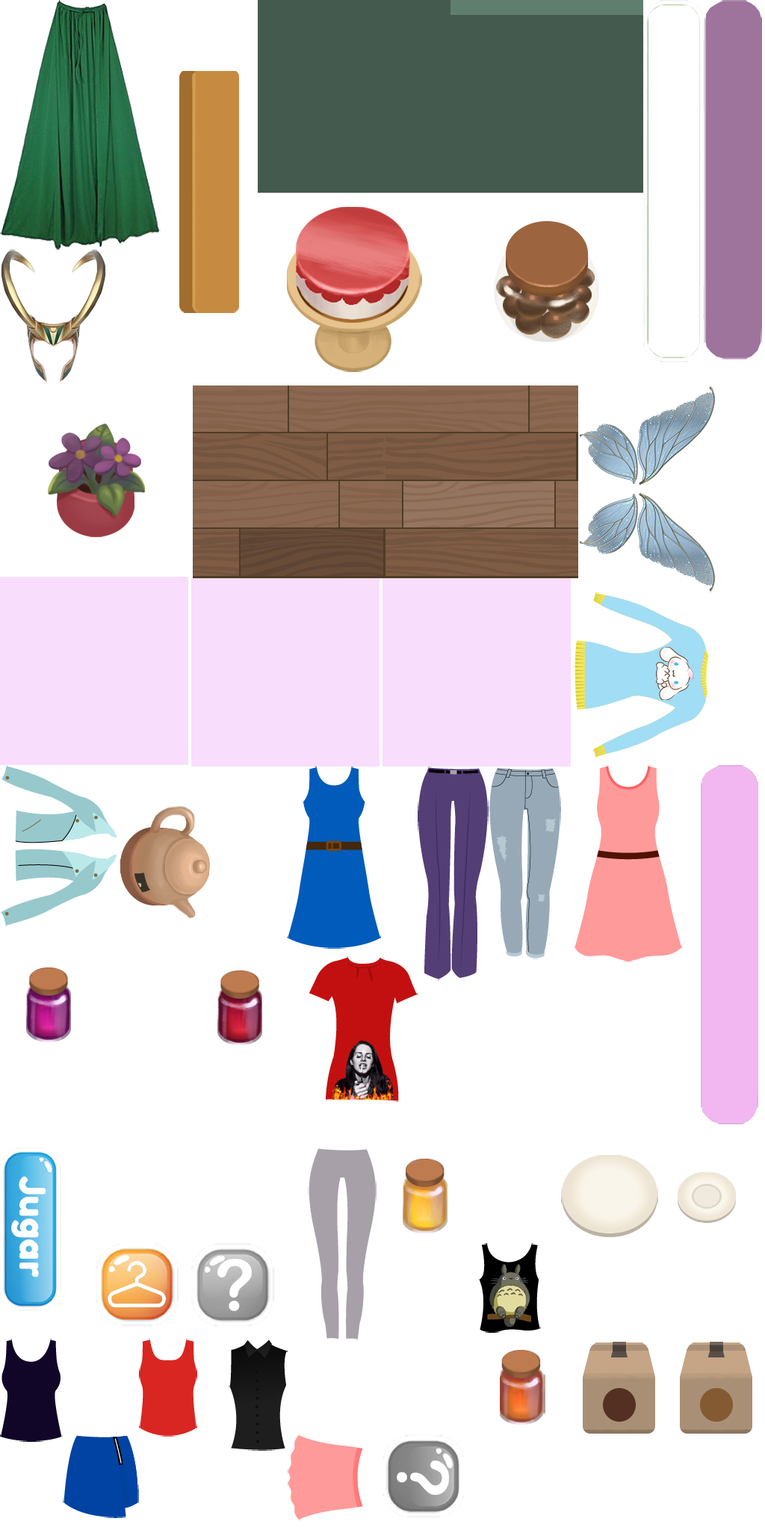
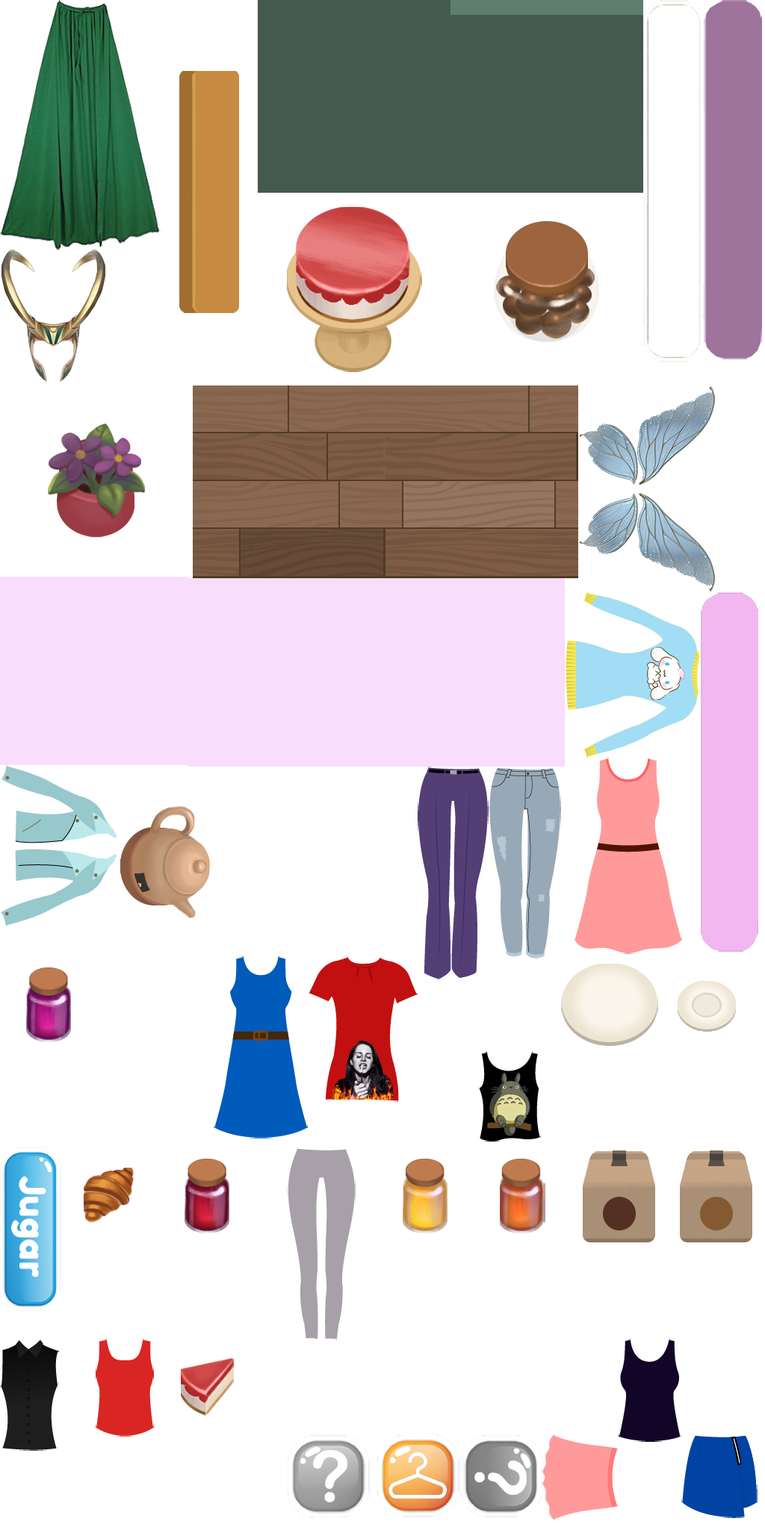
.

diff --git a/scripts/c3runtime.js b/scripts/c3runtime.js
@@ -1236,9 +1236,24 @@ const C3=self.C3,GESTURE_HOLD_THRESHOLD=15,GESTURE_HOLD_TIMEOUT=500,GESTURE_TAP_
 {const a=self.C3;a.Behaviors.Fade=class extends a.SDKBehaviorBase{constructor(t){super(t)}Release(){super.Release()}}}{const d=self.C3;d.Behaviors.Fade.Type=class extends d.SDKBehaviorTypeBase{constructor(t){super(t)}Release(){super.Release()}OnCreate(){}}}{const g=self.C3,h=self.C3X,i=self.IBehaviorInstance,j=0,k=1,l=2,m=3,n=4,o=(g.Behaviors.Fade.Instance=class extends g.SDKBehaviorInstanceBase{constructor(t,e){super(t),this._fadeInTime=0,this._waitTime=0,this._fadeOutTime=0,this._destroy=!0,this._activeAtStart=!0,this._setMaxOpacity=!1,this._stage=0,this._stageTime=g.New(g.KahanSum),this._maxOpacity=this._inst.GetWorldInfo().GetOpacity()||1,e&&(this._fadeInTime=e[j],this._waitTime=e[k],this._fadeOutTime=e[l],this._destroy=!!e[m],this._activeAtStart=!!e[n],this._stage=this._activeAtStart?0:3),this._activeAtStart&&(0===this._fadeInTime?(this._stage=1,0===this._waitTime&&(this._stage=2)):(this._inst.GetWorldInfo().SetOpacity(0),this._runtime.UpdateRender())),this._StartTicking()}Release(){super.Release()}SaveToJson(){return{"fit":this._fadeInTime,"wt":this._waitTime,"fot":this._fadeOutTime,"d":this._destroy,"s":this._stage,"st":this._stageTime.Get(),"mo":this._maxOpacity}}LoadFromJson(t){this._fadeInTime=t["fit"],this._waitTime=t["wt"],this._fadeOutTime=t["fot"],this._destroy=t["d"],this._stage=t["s"],this._stageTime.Set(t["st"]),this._maxOpacity=t["mo"],3===this._stage?this._StopTicking():this._StartTicking()}Tick(){const t=this._runtime.GetDt(this._inst),e=(this._stageTime.Add(t),this._inst.GetWorldInfo());0===this._stage&&(e.SetOpacity(this._stageTime.Get()/this._fadeInTime*this._maxOpacity),this._runtime.UpdateRender(),e.GetOpacity()>=this._maxOpacity)&&(e.SetOpacity(this._maxOpacity),this._stage=1,this._stageTime.Reset(),this.DispatchScriptEvent("fadeinend"),this.Trigger(g.Behaviors.Fade.Cnds.OnFadeInEnd)),1===this._stage&&this._stageTime.Get()>=this._waitTime&&(this._stage=2,this._stageTime.Reset(),this.DispatchScriptEvent("waitend"),this.Trigger(g.Behaviors.Fade.Cnds.OnWaitEnd)),2===this._stage&&(0!==this._fadeOutTime?(e.SetOpacity(this._maxOpacity-this._stageTime.Get()/this._fadeOutTime*this._maxOpacity),this._runtime.UpdateRender(),e.GetOpacity()<=0&&(this._stage=3,this._stageTime.Reset(),this.DispatchScriptEvent("fadeoutend"),this.Trigger(g.Behaviors.Fade.Cnds.OnFadeOutEnd),this._destroy)&&this._runtime.DestroyInstance(this._inst)):(this._stage=3,this._stageTime.Reset())),3===this._stage&&this._StopTicking()}_StartFade(){this._activeAtStart||this._setMaxOpacity||(this._maxOpacity=this._inst.GetWorldInfo().GetOpacity()||1,this._setMaxOpacity=!0),3===this._stage&&this.Start()}_RestartFade(){this.Start()}Start(){this._stage=0,this._stageTime.Reset(),0===this._fadeInTime?(this._stage=1,0===this._waitTime&&(this._stage=2)):(this._inst.GetWorldInfo().SetOpacity(0),this._runtime.UpdateRender()),this._StartTicking()}_SetFadeInTime(t){this._fadeInTime=Math.max(t,0)}_GetFadeInTime(){return this._fadeInTime}_SetWaitTime(t){this._waitTime=Math.max(t,0)}_GetWaitTime(){return this._waitTime}_SetFadeOutTime(t){this._fadeOutTime=Math.max(t,0)}_GetFadeOutTime(){return this._fadeOutTime}GetPropertyValueByIndex(t){switch(t){case j:return this._GetFadeInTime();case k:return this._GetWaitTime();case l:return this._GetFadeOutTime();case m:return this._destroy}}SetPropertyValueByIndex(t,e){switch(t){case j:this._SetFadeInTime(e);break;case k:this._SetWaitTime(e);break;case l:this._SetFadeOutTime(e);break;case m:this._destroy=!!e}}GetDebuggerProperties(){const t="behaviors.fade";return[{title:"$"+this.GetBehaviorType().GetName(),properties:[{name:t+".properties.fade-in-time.name",value:this._GetFadeInTime(),onedit:t=>this._SetFadeInTime(t)},{name:t+".properties.wait-time.name",value:this._GetWaitTime(),onedit:t=>this._SetWaitTime(t)},{name:t+".properties.fade-out-time.name",value:this._GetFadeOutTime(),onedit:t=>this._SetFadeOutTime(t)},{name:t+".debugger.stage",value:[t+".debugger."+["fade-in","wait","fade-out","done"][this._stage]]}]}]}GetScriptInterfaceClass(){return self.IFadeBehaviorInstance}},new WeakMap);self.IFadeBehaviorInstance=class extends i{constructor(){super(),o.set(this,i._GetInitInst().GetSdkInstance())}startFade(){o.get(this)._StartFade()}restartFade(){o.get(this)._RestartFade()}set fadeInTime(t){h.RequireFiniteNumber(t),o.get(this)._SetFadeInTime(t)}get fadeInTime(){return o.get(this)._GetFadeInTime()}set waitTime(t){h.RequireFiniteNumber(t),o.get(this)._SetWaitTime(t)}get waitTime(){return o.get(this)._GetWaitTime()}set fadeOutTime(t){h.RequireFiniteNumber(t),o.get(this)._SetFadeOutTime(t)}get fadeOutTime(){return o.get(this)._GetFadeOutTime()}}}{const J=self.C3;J.Behaviors.Fade.Cnds={OnFadeOutEnd(){return!0},OnFadeInEnd(){return!0},OnWaitEnd(){return!0}}}{const K=self.C3;K.Behaviors.Fade.Acts={StartFade(){this._StartFade()},RestartFade(){this._RestartFade()},SetFadeInTime(t){this._SetFadeInTime(t)},SetWaitTime(t){this._SetWaitTime(t)},SetFadeOutTime(t){this._SetFadeOutTime(t)}}}{const O=self.C3;O.Behaviors.Fade.Exps={FadeInTime(){return this._GetFadeInTime()},WaitTime(){return this._GetWaitTime()},FadeOutTime(){return this._GetFadeOutTime()}}}
 }
 
+// scripts/behaviors/scrollto/c3runtime/runtime.js
+{
+{const a=self.C3;a.Behaviors.scrollto=class extends a.SDKBehaviorBase{constructor(e){super(e),this._shakeMag=0,this._shakeStart=0,this._shakeEnd=0,this._shakeMode=0}Release(){super.Release()}SetShakeMagnitude(e){this._shakeMag=e}GetShakeMagnitude(){return this._shakeMag}SetShakeStart(e){this._shakeStart=e}GetShakeStart(){return this._shakeStart}SetShakeEnd(e){this._shakeEnd=e}GetShakeEnd(){return this._shakeEnd}SetShakeMode(e){this._shakeMode=e}GetShakeMode(){return this._shakeMode}}}{const h=self.C3;h.Behaviors.scrollto.Type=class extends h.SDKBehaviorTypeBase{constructor(e){super(e)}Release(){super.Release()}OnCreate(){}}}{const k=self.C3,l=0;k.Behaviors.scrollto.Instance=class extends k.SDKBehaviorInstanceBase{constructor(e,t){super(e),this._isEnabled=!0,t&&(this._isEnabled=t[l]),this._isEnabled&&this._StartTicking2()}Release(){super.Release()}SaveToJson(){const e=this.GetBehavior();return{"e":this._isEnabled,"smg":e.GetShakeMagnitude(),"ss":e.GetShakeStart(),"se":e.GetShakeEnd(),"smd":e.GetShakeMode()}}LoadFromJson(e){const t=this.GetBehavior();t.SetShakeMagnitude(e["smg"]),t.SetShakeStart(e["ss"]),t.SetShakeEnd(e["se"]),t.SetShakeMode(e["smd"]),this._isEnabled=e["e"],this._isEnabled?this._StartTicking2():this._StopTicking2()}_SetEnabled(e){this._isEnabled=!!e,this._isEnabled?this._StartTicking2():this._StopTicking2()}IsEnabled(){return this._isEnabled}Tick2(){if(this.IsEnabled()){this._runtime.GetDt(this._inst);const h=this.GetBehavior(),n=h.GetInstances();let e=0,t=0,s=0;for(const S of n){const l=S.GetBehaviorInstanceFromCtor(k.Behaviors.scrollto);if(l&&l.GetSdkInstance().IsEnabled()){const d=S.GetWorldInfo();e+=d.GetX(),t+=d.GetY(),++s}}const r=this._inst.GetWorldInfo().GetLayout(),o=this._runtime.GetGameTime();let a=0,i=0;if(o>=h.GetShakeStart()&&o<h.GetShakeEnd()){let e=h.GetShakeMagnitude()*Math.min(this._runtime.GetTimeScale(),1);0===h.GetShakeMode()&&(e*=1-(o-h.GetShakeStart())/(h.GetShakeEnd()-h.GetShakeStart()));const c=this._runtime.Random()*Math.PI*2,_=this._runtime.Random()*e;a=Math.cos(c)*_,i=Math.sin(c)*_}r.SetScrollX(e/s+a),r.SetScrollY(t/s+i)}}GetPropertyValueByIndex(e){if(e===l)return this._isEnabled}SetPropertyValueByIndex(e,t){e===l&&(this._isEnabled=!!t,this._isEnabled?this._StartTicking2():this._StopTicking2())}GetDebuggerProperties(){return[{title:"$"+this.GetBehaviorType().GetName(),properties:[{name:"behaviors.scrollto.properties.enabled.name",value:this.IsEnabled(),onedit:e=>this._SetEnabled(e)}]}]}}}{const O=self.C3;O.Behaviors.scrollto.Cnds={IsEnabled(){return this.IsEnabled()}}}{const P=self.C3;P.Behaviors.scrollto.Acts={Shake(e,t,s){const a=this.GetBehavior();a.SetShakeMagnitude(e),a.SetShakeStart(this._runtime.GetGameTime()),a.SetShakeEnd(this._runtime.GetGameTime()+t),a.SetShakeMode(s)},SetEnabled(e){this._SetEnabled(0!==e)}}}{const V=self.C3;V.Behaviors.scrollto.Exps={}}
+}
+
 // scripts/behaviors/DragnDrop/c3runtime/runtime.js
 {
 {const a=self.C3;a.Behaviors.DragnDrop=class extends a.SDKBehaviorBase{constructor(e){super(e);const t=this._runtime.Dispatcher();this._disposables=new a.CompositeDisposable(a.Disposable.From(t,"pointerdown",e=>this._OnPointerDown(e.data)),a.Disposable.From(t,"pointermove",e=>this._OnPointerMove(e.data)),a.Disposable.From(t,"pointerup",e=>this._OnPointerUp(e.data,!1)),a.Disposable.From(t,"pointercancel",e=>this._OnPointerUp(e.data,!0)))}Release(){this._disposables.Release(),this._disposables=null,super.Release()}_OnPointerDown(e){"mouse"===e["pointerType"]&&0!==e["button"]||this._OnInputDown(e["pointerId"].toString(),e["pageX"]-this._runtime.GetCanvasClientX(),e["pageY"]-this._runtime.GetCanvasClientY())}_OnPointerMove(e){0!=(1&e["lastButtons"])&&0==(1&e["buttons"])?this._OnInputUp(e["pointerId"].toString()):this._OnInputMove(e["pointerId"].toString(),e["pageX"]-this._runtime.GetCanvasClientX(),e["pageY"]-this._runtime.GetCanvasClientY())}_OnPointerUp(e,t){"mouse"===e["pointerType"]&&0!==e["button"]||this._OnInputUp(e["pointerId"].toString())}async _OnInputDown(e,t,s){const n=this.GetInstances();let r=null,i=null,o=0,h=0;for(const g of n){const l=g.GetBehaviorSdkInstanceFromCtor(a.Behaviors.DragnDrop);if(l.IsEnabled()&&!l.IsDragging()&&!g.IsDestroyed()){const p=g.GetWorldInfo(),d=p.GetLayer(),[_,c]=d.CanvasCssToLayer(t,s,p.GetTotalZElevation());if(d.IsSelfAndParentsInteractive()&&p.ContainsPoint(_,c))if(r){const D=r.GetWorldInfo();(d.GetIndex()>D.GetLayer().GetIndex()||d.GetIndex()===D.GetLayer().GetIndex()&&p.GetZIndex()>D.GetZIndex())&&(r=g,i=l,o=_,h=c)}else r=g,i=l,o=_,h=c}}r&&await i._OnDown(e,o,h)}_OnInputMove(e,t,s){const n=this.GetInstances();for(const r of n){const i=r.GetBehaviorSdkInstanceFromCtor(a.Behaviors.DragnDrop);if(i.IsEnabled()&&i.IsDragging()&&(!i.IsDragging()||i.GetDragSource()===e)){const o=r.GetWorldInfo(),h=o.GetLayer(),[g,l]=h.CanvasCssToLayer(t,s,o.GetTotalZElevation());i._OnMove(g,l)}}}async _OnInputUp(e){const t=this.GetInstances();for(const s of t){const n=s.GetBehaviorSdkInstanceFromCtor(a.Behaviors.DragnDrop);n.IsDragging()&&n.GetDragSource()===e&&await n._OnUp()}}}}{const P=self.C3;P.Behaviors.DragnDrop.Type=class extends P.SDKBehaviorTypeBase{constructor(e){super(e)}Release(){super.Release()}OnCreate(){}}}{const S=self.C3,T=self.C3X,U=self.IBehaviorInstance,V=0,W=1,X=(S.Behaviors.DragnDrop.Instance=class extends S.SDKBehaviorInstanceBase{constructor(e,t){super(e),this._isDragging=!1,this._dx=0,this._dy=0,this._dragSource="<none>",this._axes=0,this._isEnabled=!0,t&&(this._axes=t[V],this._isEnabled=t[W])}Release(){super.Release()}SaveToJson(){return{"a":this._axes,"e":this._isEnabled}}LoadFromJson(e){this._axes=e["a"],this._isEnabled=e["e"],this._isDragging=!1}_SetEnabled(e){this._isEnabled=!!e,this._isEnabled||(this._isDragging=!1)}IsEnabled(){return this._isEnabled}_SetAxes(e){this._axes=e}_GetAxes(){return this._axes}_Drop(){this._isDragging&&this._OnUp()}IsDragging(){return this._isDragging}GetDragSource(){return this._dragSource}async _OnDown(e,t,s){const n=this.GetWorldInfo();this._dx=t-n.GetX(),this._dy=s-n.GetY(),this._isDragging=!0,this._dragSource=e,this.DispatchScriptEvent("dragstart"),await this.TriggerAsync(S.Behaviors.DragnDrop.Cnds.OnDragStart)}_OnMove(e,t){const s=this.GetWorldInfo(),n=e-this._dx,r=t-this._dy;0===this._axes?s.GetX()===n&&s.GetY()===r||(s.SetXY(n,r),s.SetBboxChanged()):1===this._axes?s.GetX()!==n&&(s.SetX(n),s.SetBboxChanged()):2===this._axes&&s.GetY()!==r&&(s.SetY(r),s.SetBboxChanged())}async _OnUp(){this._isDragging=!1,this.DispatchScriptEvent("drop"),await this.TriggerAsync(S.Behaviors.DragnDrop.Cnds.OnDrop)}GetPropertyValueByIndex(e){switch(e){case V:return this._GetAxes();case W:return this.IsEnabled()}}SetPropertyValueByIndex(e,t){switch(e){case V:this._SetAxes(t);break;case W:this._SetEnabled(!!t)}}GetDebuggerProperties(){const e="behaviors.dragndrop",t=e+".properties.axes";let s="";return 0===this._axes?s=t+".items.both":1===this._axes?s=t+".items.horizontal-only":2===this._axes&&(s=t+".items.vertical-only"),[{title:"$"+this.GetBehaviorType().GetName(),properties:[{name:e+".debugger.is-dragging",value:this.IsDragging()},{name:t+".name",value:[s]},{name:e+".properties.enabled.name",value:this.IsEnabled(),onedit:e=>this._SetEnabled(e)}]}]}GetScriptInterfaceClass(){return self.IDragDropBehaviorInstance}},new WeakMap),Y=["both","horizontal","vertical"];self.IDragDropBehaviorInstance=class extends U{constructor(){super(),X.set(this,U._GetInitInst().GetSdkInstance())}set axes(e){const t=Y.indexOf(e);if(-1===t)throw new Error("invalid axes");X.get(this)._SetAxes(t)}get axes(){return Y[X.get(this)._GetAxes()]}drop(){X.get(this)._Drop()}get isDragging(){return X.get(this).IsDragging()}get isEnabled(){return X.get(this).IsEnabled()}set isEnabled(e){X.get(this)._SetEnabled(e)}}}{const xa=self.C3;xa.Behaviors.DragnDrop.Cnds={IsDragging(){return this.IsDragging()},OnDragStart(){return!0},OnDrop(){return!0},IsEnabled(){return this.IsEnabled()}}}{const ya=self.C3;ya.Behaviors.DragnDrop.Acts={SetEnabled(e){this._SetEnabled(!!e)},SetAxes(e){this._SetAxes(e)},Drop(){this._Drop()}}}{const Ba=self.C3;Ba.Behaviors.DragnDrop.Exps={}}
+}
+
+// scripts/behaviors/EightDir/c3runtime/runtime.js
+{
+{const a=self.C3;a.Behaviors.EightDir=class extends a.SDKBehaviorBase{constructor(t){super(t)}Release(){super.Release()}}}{const d=self.C3;d.Behaviors.EightDir.Type=class extends d.SDKBehaviorTypeBase{constructor(t){super(t)}Release(){super.Release()}OnCreate(){}}}{const g=self.C3,h=self.C3X,i=self.IBehaviorInstance,j=0,k=1,l=2,m=3,n=4,o=5,p=6,q=7,r=(g.Behaviors.EightDir.Instance=class extends g.SDKBehaviorInstanceBase{constructor(t,e){super(t),this._upKey=!1,this._downKey=!1,this._leftKey=!1,this._rightKey=!1,this._ignoreInput=!1,this._simUp=!1,this._simDown=!1,this._simLeft=!1,this._simRight=!1,this._dx=0,this._dy=0,this._maxSpeed=200,this._acc=600,this._dec=500,this._directions=3,this._angleMode=3,this._allowSliding=!1,this._defaultControls=!0,this._isEnabled=!0,e&&(this._maxSpeed=e[j],this._acc=e[k],this._dec=e[l],this._directions=e[m],this._angleMode=e[n],this._allowSliding=!!e[o],this._defaultControls=!!e[p],this._isEnabled=!!e[q]),this._isEnabled&&this._StartTicking(),this._defaultControls&&this._BindEvents()}_BindEvents(){if(!this._disposables){const t=this._runtime.Dispatcher();this._disposables=new g.CompositeDisposable(g.Disposable.From(t,"keydown",t=>this._OnKeyDown(t.data)),g.Disposable.From(t,"keyup",t=>this._OnKeyUp(t.data)),g.Disposable.From(t,"window-blur",()=>this._OnWindowOrKeyboardBlur()),g.Disposable.From(t,"keyboard-blur",()=>this._OnWindowOrKeyboardBlur()))}}_UnBindEvents(){this._disposables&&(this._disposables.Release(),this._disposables=null)}Release(){super.Release()}SaveToJson(){return{"dx":this._dx,"dy":this._dy,"e":this._isEnabled,"ms":this._maxSpeed,"acc":this._acc,"dec":this._dec,"d":this._directions,"am":this._angleMode,"dc":this._defaultControls,"ii":this._ignoreInput}}LoadFromJson(t){this._dx=t["dx"],this._dy=t["dy"],this._SetEnabled(t["e"]),this._maxSpeed=t["ms"],this._acc=t["acc"],this._dec=t["dec"],this._directions=t["d"],this._angleMode=t["am"],this._defaultControls=t["dc"],this._ignoreInput=t["ii"],this._upKey=!1,this._downKey=!1,this._leftKey=!1,this._rightKey=!1,this._simUp=!1,this._simDown=!1,this._simLeft=!1,this._simRight=!1,this._defaultControls?this._BindEvents():this._UnBindEvents()}_OnKeyDown(t){switch(t["key"]){case"ArrowLeft":this._leftKey=!0;break;case"ArrowUp":this._upKey=!0;break;case"ArrowRight":this._rightKey=!0;break;case"ArrowDown":this._downKey=!0}}_OnKeyUp(t){switch(t["key"]){case"ArrowLeft":this._leftKey=!1;break;case"ArrowUp":this._upKey=!1;break;case"ArrowRight":this._rightKey=!1;break;case"ArrowDown":this._downKey=!1}}_OnWindowOrKeyboardBlur(){this._upKey=!1,this._downKey=!1,this._leftKey=!1,this._rightKey=!1}Tick(){const h=this._runtime.GetDt(this._inst),n=this._runtime.GetCollisionEngine();let e=this._leftKey||this._simLeft,a=this._rightKey||this._simRight,r=this._upKey||this._simUp,o=this._downKey||this._simDown;if(this._simLeft=!1,this._simRight=!1,this._simUp=!1,this._simDown=!1,this._isEnabled){let s=n.TestOverlapSolid(this._inst);if(!s||(n.RegisterCollision(this._inst,s),n.PushOutSolidNearest(this._inst))){this._ignoreInput&&(e=a=r=o=!1),0===this._directions?e=a=!1:1===this._directions&&(r=o=!1),(e=2===this._directions&&(r||o)?a=!1:e)===a&&(this._dx<0?this._dx=Math.min(this._dx+this._dec*h,0):0<this._dx&&(this._dx=Math.max(this._dx-this._dec*h,0))),r===o&&(this._dy<0?this._dy=Math.min(this._dy+this._dec*h,0):0<this._dy&&(this._dy=Math.max(this._dy-this._dec*h,0)));let t=0,i=0;if(e&&!a&&(t=0<this._dx?-(this._acc+this._dec):-this._acc),a&&!e&&(t=this._dx<0?this._acc+this._dec:this._acc),r&&!o&&(i=0<this._dy?-(this._acc+this._dec):-this._acc),o&&!r&&(i=this._dy<0?this._acc+this._dec:this._acc),this._dx+=t*h,this._dy+=i*h,0!==this._dx||0!==this._dy){let e=Math.hypot(this._dx,this._dy);const _=Math.atan2(this._dy,this._dx),d=this._maxSpeed*Math.cos(_),l=this._maxSpeed*Math.sin(_),c=(e>this._maxSpeed&&(e=this._maxSpeed,this._dx=d,this._dy=l),this._inst.GetWorldInfo()),S=c.GetX(),u=c.GetY(),p=c.GetAngle(),m=Math.abs(d)*h,b=Math.abs(l)*h,x=g.clamp(this._dx*h+.5*t*h*h,-m,m),y=g.clamp(this._dy*h+.5*i*h*h,-b,b);if(this._allowSliding){if(c.OffsetXY(x,y),c.SetBboxChanged(),s=n.TestOverlapSolid(this._inst)){n.RegisterCollision(this._inst,s);const w=Math.atan2(this._dy,this._dx)+Math.PI/2;let t=!1;const D=(c.GetWidth()+c.GetHeight())/4;if(n.PushOutSolidAxis(this._inst,Math.cos(w),Math.sin(w),Math.max(2.5*e*h,D))){t=!0;const I=c.GetX(),C=c.GetY(),G=e*h,v=g.distanceTo(S,u,I,C);if(1.01*G<v){const A=G/v,E=g.lerp(S,I,A),B=g.lerp(u,C,A);if(c.SetXY(E,B),c.SetBboxChanged(),s=n.TestOverlapSolid(this._inst)){const R=g.angleTo(S,u,I,C)+Math.PI/2,K=Math.cos(R),O=Math.sin(R),V=(c.GetWidth()+c.GetHeight())/2/10;n.PushOutSolidAxis(this._inst,K,O,Math.max(V,1))||(c.SetXY(S,u),c.SetBboxChanged(),t=!1)}}}if(!t){const k=Math.hypot(x,y),X=-x/k,Y=-y/k;this._dx=0,this._dy=0,n.PushOutSolid(this._inst,X,Y,Math.max(2.5*e*h,D))||(c.SetXY(S,u),c.SetBboxChanged())}}}else c.OffsetX(x),c.SetBboxChanged(),(s=n.TestOverlapSolid(this._inst))&&(n.PushOutSolid(this._inst,this._dx<0?1:-1,0,Math.max(Math.abs(Math.floor(x)),1))||(c.SetX(S),c.SetBboxChanged()),this._dx=0,n.RegisterCollision(this._inst,s)),c.OffsetY(y),c.SetBboxChanged(),(s=n.TestOverlapSolid(this._inst))&&(n.PushOutSolid(this._inst,0,this._dy<0?1:-1,Math.max(Math.abs(Math.floor(y)),1))||(c.SetY(u),c.SetBboxChanged()),this._dy=0,n.RegisterCollision(this._inst,s));const M=g.roundToDp(this._dx,6),f=g.roundToDp(this._dy,6);0===M&&0===f||!this._inst.GetPlugin().IsRotatable()||(1===this._angleMode?c.SetAngle(g.toRadians(90*Math.round(g.toDegrees(Math.atan2(f,M))/90))):2===this._angleMode?c.SetAngle(g.toRadians(45*Math.round(g.toDegrees(Math.atan2(f,M))/45))):3===this._angleMode&&c.SetAngle(Math.atan2(f,M))),c.SetBboxChanged(),c.GetAngle()!=p&&(s=n.TestOverlapSolid(this._inst))&&(c.SetAngle(p),c.SetBboxChanged(),n.RegisterCollision(this._inst,s))}}}}GetPropertyValueByIndex(t){switch(t){case j:return this._GetMaxSpeed();case k:return this._GetAcceleration();case l:return this._GetDeceleration();case m:return this._directions;case n:return this._angleMode;case o:return this._allowSliding;case p:return this._IsDefaultControls();case q:return this._IsEnabled()}}SetPropertyValueByIndex(t,e){switch(t){case j:this._SetMaxSpeed(e);break;case k:this._SetAcceleration(e);break;case l:this._SetDeceleration(e);break;case m:this._directions=e;break;case n:this._angleMode=e;break;case o:this._allowSliding=!!e;break;case p:this._SetDefaultControls(!!e);break;case q:this._SetEnabled(!!e)}}_Stop(){this._dx=0,this._dy=0}_Reverse(){this._dx*=-1,this._dy*=-1}_MaybeClampSpeed(){const t=Math.hypot(this._dx,this._dy);t>this._maxSpeed&&this._SetSpeed(t)}_SetSpeed(t){t=g.clamp(t,0,this._maxSpeed);const e=Math.atan2(this._dy,this._dx);this._dx=t*Math.cos(e),this._dy=t*Math.sin(e)}_GetSpeed(){return Math.hypot(this._dx,this._dy)}_SetMaxSpeed(t){this._maxSpeed=Math.max(t,0)}_GetMaxSpeed(){return this._maxSpeed}_SetAcceleration(t){this._acc=Math.max(t,0)}_GetAcceleration(){return this._acc}_SetDeceleration(t){this._dec=Math.max(t,0)}_GetDeceleration(){return this._dec}_GetMovingAngle(){return Math.atan2(this._dy,this._dx)}_SetVectorX(t){this._dx=t,this._MaybeClampSpeed()}_GetVectorX(){return this._dx}_SetVectorY(t){this._dy=t,this._MaybeClampSpeed()}_GetVectorY(){return this._dy}_SimulateControl(t){if(this._isEnabled)switch(t){case 0:this._simLeft=!0;break;case 1:this._simRight=!0;break;case 2:this._simUp=!0;break;case 3:this._simDown=!0}}_SetDefaultControls(t){this._defaultControls!==(t=!!t)&&(this._defaultControls=t,this._defaultControls?this._BindEvents():(this._UnBindEvents(),this._OnWindowOrKeyboardBlur()))}_IsDefaultControls(){return this._defaultControls}_SetIgnoreInput(t){this._ignoreInput=!!t}_IsIgnoreInput(){return this._ignoreInput}_SetEnabled(t){this._isEnabled=!!t,this._isEnabled?this._StartTicking():(this._simLeft=!1,this._simRight=!1,this._simUp=!1,this._simDown=!1,this._StopTicking())}_IsEnabled(){return this._isEnabled}_SetAllowSliding(t){this._allowSliding=!!t}_IsAllowSliding(){return this._allowSliding}GetDebuggerProperties(){const t="behaviors.eightdir";return[{title:"$"+this.GetBehaviorType().GetName(),properties:[{name:t+".debugger.vector-x",value:this._GetVectorX(),onedit:t=>this._SetVectorX(t)},{name:t+".debugger.vector-y",value:this._GetVectorY(),onedit:t=>this._SetVectorY(t)},{name:t+".debugger.speed",value:this._GetSpeed(),onedit:t=>this._SetSpeed(t)},{name:t+".debugger.angle-of-motion",value:g.toDegrees(this._GetMovingAngle())},{name:t+".properties.max-speed.name",value:this._GetMaxSpeed(),onedit:t=>this._SetMaxSpeed(t)},{name:t+".properties.acceleration.name",value:this._GetAcceleration(),onedit:t=>this._SetAcceleration(t)},{name:t+".properties.deceleration.name",value:this._GetDeceleration(),onedit:t=>this._SetDeceleration(t)},{name:t+".properties.allow-sliding.name",value:this._IsAllowSliding(),onedit:t=>this._SetAllowSliding(t)},{name:t+".properties.enabled.name",value:this._IsEnabled(),onedit:t=>this._SetEnabled(t)}]}]}GetScriptInterfaceClass(){return self.I8DirectionBehaviorInstance}},new WeakMap),s=new Map([["left",0],["right",1],["up",2],["down",3]]);self.I8DirectionBehaviorInstance=class extends i{constructor(){super(),r.set(this,i._GetInitInst().GetSdkInstance())}stop(){r.get(this)._Stop()}reverse(){r.get(this)._Reverse()}simulateControl(t){h.RequireString(t);const e=s.get(t);if("number"!=typeof e)throw new Error("invalid control");r.get(this)._SimulateControl(e)}get speed(){return r.get(this)._GetSpeed()}set speed(t){h.RequireFiniteNumber(t),r.get(this)._SetSpeed(t)}get maxSpeed(){return r.get(this)._GetMaxSpeed()}set maxSpeed(t){h.RequireFiniteNumber(t),r.get(this)._SetMaxSpeed(t)}get acceleration(){return r.get(this)._GetAcceleration()}set acceleration(t){h.RequireFiniteNumber(t),r.get(this)._SetAcceleration(t)}get deceleration(){return r.get(this)._GetDeceleration()}set deceleration(t){h.RequireFiniteNumber(t),r.get(this)._SetDeceleration(t)}get vectorX(){return r.get(this)._GetVectorX()}set vectorX(t){h.RequireFiniteNumber(t),r.get(this)._SetVectorX(t)}get vectorY(){return r.get(this)._GetVectorY()}set vectorY(t){h.RequireFiniteNumber(t),r.get(this)._SetVectorY(t)}setVector(t,e){h.RequireFiniteNumber(t),h.RequireFiniteNumber(e);const i=r.get(this);i._SetVectorX(t),i._SetVectorY(e)}getVector(){const t=r.get(this);return[t._GetVectorX(),t._GetVectorY()]}get isDefaultControls(){return r.get(this)._IsDefaultControls()}set isDefaultControls(t){r.get(this)._SetDefaultControls(!!t)}get isIgnoringInput(){return r.get(this)._IsIgnoreInput()}set isIgnoringInput(t){r.get(this)._SetIgnoreInput(!!t)}get isAllowSliding(){return r.get(this)._IsAllowSliding()}set isAllowSliding(t){r.get(this)._SetAllowSliding(!!t)}get isEnabled(){return r.get(this)._IsEnabled()}set isEnabled(t){r.get(this)._SetEnabled(!!t)}}}{const c0=self.C3;c0.Behaviors.EightDir.Cnds={IsMoving(){return 1e-10<this._GetSpeed()},CompareSpeed(t,e){return c0.compare(this._GetSpeed(),t,e)},IsEnabled(){return this._IsEnabled()},IsAllowSliding(){return this._IsAllowSliding()}}}{const f0=self.C3;f0.Behaviors.EightDir.Acts={Stop(){this._Stop()},Reverse(){this._Reverse()},SetIgnoreInput(t){this._SetIgnoreInput(t)},SetSpeed(t){this._SetSpeed(t)},SetMaxSpeed(t){this._SetMaxSpeed(t)},SetAcceleration(t){this._SetAcceleration(t)},SetDeceleration(t){this._SetDeceleration(t)},SimulateControl(t){this._SimulateControl(t)},SetEnabled(t){this._SetEnabled(t)},SetVectorX(t){this._SetVectorX(t)},SetVectorY(t){this._SetVectorY(t)},SetDefaultControls(t){this._SetDefaultControls(!!t)},SetAllowSliding(t){this._SetAllowSliding(t)}}}{const r0=self.C3;r0.Behaviors.EightDir.Exps={Speed(){return this._GetSpeed()},MaxSpeed(){return this._GetMaxSpeed()},Acceleration(){return this._GetAcceleration()},Deceleration(){return this._GetDeceleration()},MovingAngle(){return r0.toDegrees(this._GetMovingAngle())},VectorX(){return this._GetVectorX()},VectorY(){return this._GetVectorY()}}}
+}
+
+// scripts/behaviors/bound/c3runtime/runtime.js
+{
+{const a=self.C3;a.Behaviors.bound=class extends a.SDKBehaviorBase{constructor(e){super(e)}Release(){super.Release()}}}{const d=self.C3;d.Behaviors.bound.Type=class extends d.SDKBehaviorTypeBase{constructor(e){super(e)}Release(){super.Release()}OnCreate(){}}}{const g=self.C3,h=0;g.Behaviors.bound.Instance=class extends g.SDKBehaviorInstanceBase{constructor(e,t){super(e),this._mode=0,t&&(this._mode=t[h]),this._StartTicking2()}Release(){super.Release()}SaveToJson(){return{"m":this._mode}}LoadFromJson(e){this._mode=e["m"]}Tick2(){const e=this._inst.GetWorldInfo(),t=e.GetBoundingBox(),s=e.GetLayout();let o=!1;0===this._mode?(e.GetX()<0&&(e.SetX(0),o=!0),e.GetY()<0&&(e.SetY(0),o=!0),e.GetX()>s.GetWidth()&&(e.SetX(s.GetWidth()),o=!0),e.GetY()>s.GetHeight()&&(e.SetY(s.GetHeight()),o=!0)):(t.getLeft()<0&&(e.OffsetX(-t.getLeft()),o=!0),t.getTop()<0&&(e.OffsetY(-t.getTop()),o=!0),t.getRight()>s.GetWidth()&&(e.OffsetX(-(t.getRight()-s.GetWidth())),o=!0),t.getBottom()>s.GetHeight()&&(e.OffsetY(-(t.getBottom()-s.GetHeight())),o=!0)),o&&e.SetBboxChanged()}GetPropertyValueByIndex(e){if(e===h)return this._mode}SetPropertyValueByIndex(e,t){e===h&&(this._mode=t)}}}{const t=self.C3;t.Behaviors.bound.Cnds={}}{const u=self.C3;u.Behaviors.bound.Acts={}}{const v=self.C3;v.Behaviors.bound.Exps={}}
 }
 
 // scripts/behaviors/Tween/c3runtime/runtime.js
@@ -1415,7 +1430,28 @@ self.C3_ExpressionFuncs = [
 		() => 800,
 		() => 270,
 		() => 428,
-		() => 1000
+		() => 1000,
+		() => "Camera Scrolling",
+		p => {
+			const f0 = p._GetNode(0).GetBoundMethod();
+			return () => f0();
+		},
+		p => {
+			const v0 = p._GetNode(0).GetVar();
+			return () => v0.GetValue();
+		},
+		p => {
+			const f0 = p._GetNode(0).GetBoundMethod();
+			return () => (f0(0) * 100);
+		},
+		p => {
+			const f0 = p._GetNode(0).GetBoundMethod();
+			return () => ((-f0(0)) * 100);
+		},
+		p => {
+			const n0 = p._GetNode(0);
+			return () => (n0.ExpInstVar_Family() * 1.3);
+		}
 ];
 
 

diff --git a/scripts/objRefTable.js b/scripts/objRefTable.js
@@ -5,7 +5,10 @@ self.C3_GetObjectRefTable = function () {
 		C3.Plugins.Audio,
 		C3.Plugins.Sprite,
 		C3.Behaviors.Fade,
+		C3.Behaviors.scrollto,
 		C3.Behaviors.DragnDrop,
+		C3.Behaviors.EightDir,
+		C3.Behaviors.bound,
 		C3.Behaviors.Tween,
 		C3.Plugins.System.Cnds.OnLayoutStart,
 		C3.Plugins.System.Cnds.CompareBoolVar,
@@ -35,7 +38,15 @@ self.C3_GetObjectRefTable = function () {
 		C3.Behaviors.Fade.Acts.StartFade,
 		C3.Plugins.System.Acts.GoToLayout,
 		C3.Plugins.System.Acts.ToggleBoolVar,
-		C3.Plugins.Audio.Acts.SetMuted
+		C3.Plugins.Audio.Acts.SetMuted,
+		C3.Plugins.System.Cnds.IsGroupActive,
+		C3.Plugins.Touch.Cnds.OnTouchEnd,
+		C3.Plugins.Touch.Exps.X,
+		C3.Behaviors.EightDir.Acts.SetVectorX,
+		C3.Plugins.Touch.Exps.SpeedAt,
+		C3.Plugins.Sprite.Acts.SetSize,
+		C3.Plugins.System.Acts.SetBoolVar,
+		C3.Plugins.Touch.Cnds.OnTouchStart
 	];
 };
 self.C3_JsPropNameTable = [
@@ -131,12 +142,14 @@ self.C3_JsPropNameTable = [
 	{T_Shelf: 0},
 	{T_Shelf_Mugs: 0},
 	{T_Prop_Plate_: 0},
+	{xOriginal: 0},
+	{yOriginal: 0},
+	{xScaleOriginal: 0},
+	{yScaleOriginal: 0},
 	{T_Prop_Plate_Small: 0},
 	{T_Desert_Cheesecake_Stand: 0},
 	{T_Desert_DesertBox: 0},
 	{T_Desert_Chocolate_Balls_: 0},
-	{xOriginal: 0},
-	{yOriginal: 0},
 	{T_Prop_Cattle_: 0},
 	{T_Prop_Marmelade_Purple: 0},
 	{T_Prop_Marmelade_Red: 0},
@@ -145,14 +158,31 @@ self.C3_JsPropNameTable = [
 	{T_Prop_Coffee_Beans_: 0},
 	{T_Prop_Coffee_Beans_2: 0},
 	{T_Plant_: 0},
+	{T_Desert_Chocolate_Ball_: 0},
+	{T_Desert_Croissant: 0},
+	{T_Desert_Cheesecake_Slice: 0},
+	{T_Desert_Cookie_: 0},
+	{T_Desert_Cookie_2: 0},
+	{T_Drink_Coffee_Empty_Cup: 0},
+	{T_Desert_Muffin: 0},
+	{T_Desert_Donut_: 0},
+	{T_Desert_Donut_2: 0},
+	{DesplazarHasta: 0},
 	{ArrastrarYSoltar: 0},
+	{"8Direcciones": 0},
+	{RestringidoALaEscena: 0},
+	{Camera: 0},
 	{Clothes: 0},
 	{Tweeninterpolación: 0},
 	{Buttons: 0},
 	{Backgrounds: 0},
 	{UniqueElements: 0},
+	{InvisibleElements: 0},
 	{Background: 0},
-	{MusicOn: 0}
+	{MusicOn: 0},
+	{initialTouchPosition: 0},
+	{finalTouchPosition: 0},
+	{isDragging: 0}
 ];
 
 self.InstanceType = {
@@ -252,8 +282,19 @@ self.InstanceType = {
 	T_Prop_Coffee_Beans_: class extends self.ISpriteInstance {},
 	T_Prop_Coffee_Beans_2: class extends self.ISpriteInstance {},
 	T_Plant_: class extends self.ISpriteInstance {},
+	T_Desert_Chocolate_Ball_: class extends self.ISpriteInstance {},
+	T_Desert_Croissant: class extends self.ISpriteInstance {},
+	T_Desert_Cheesecake_Slice: class extends self.ISpriteInstance {},
+	T_Desert_Cookie_: class extends self.ISpriteInstance {},
+	T_Desert_Cookie_2: class extends self.ISpriteInstance {},
+	T_Drink_Coffee_Empty_Cup: class extends self.ISpriteInstance {},
+	T_Desert_Muffin: class extends self.ISpriteInstance {},
+	T_Desert_Donut_: class extends self.ISpriteInstance {},
+	T_Desert_Donut_2: class extends self.ISpriteInstance {},
+	Camera: class extends self.ISpriteInstance {},
 	Clothes: class extends self.ISpriteInstance {},
 	Buttons: class extends self.ISpriteInstance {},
 	Backgrounds: class extends self.ISpriteInstance {},
-	UniqueElements: class extends self.ISpriteInstance {}
+	UniqueElements: class extends self.ISpriteInstance {},
+	InvisibleElements: class extends self.ISpriteInstance {}
 }
